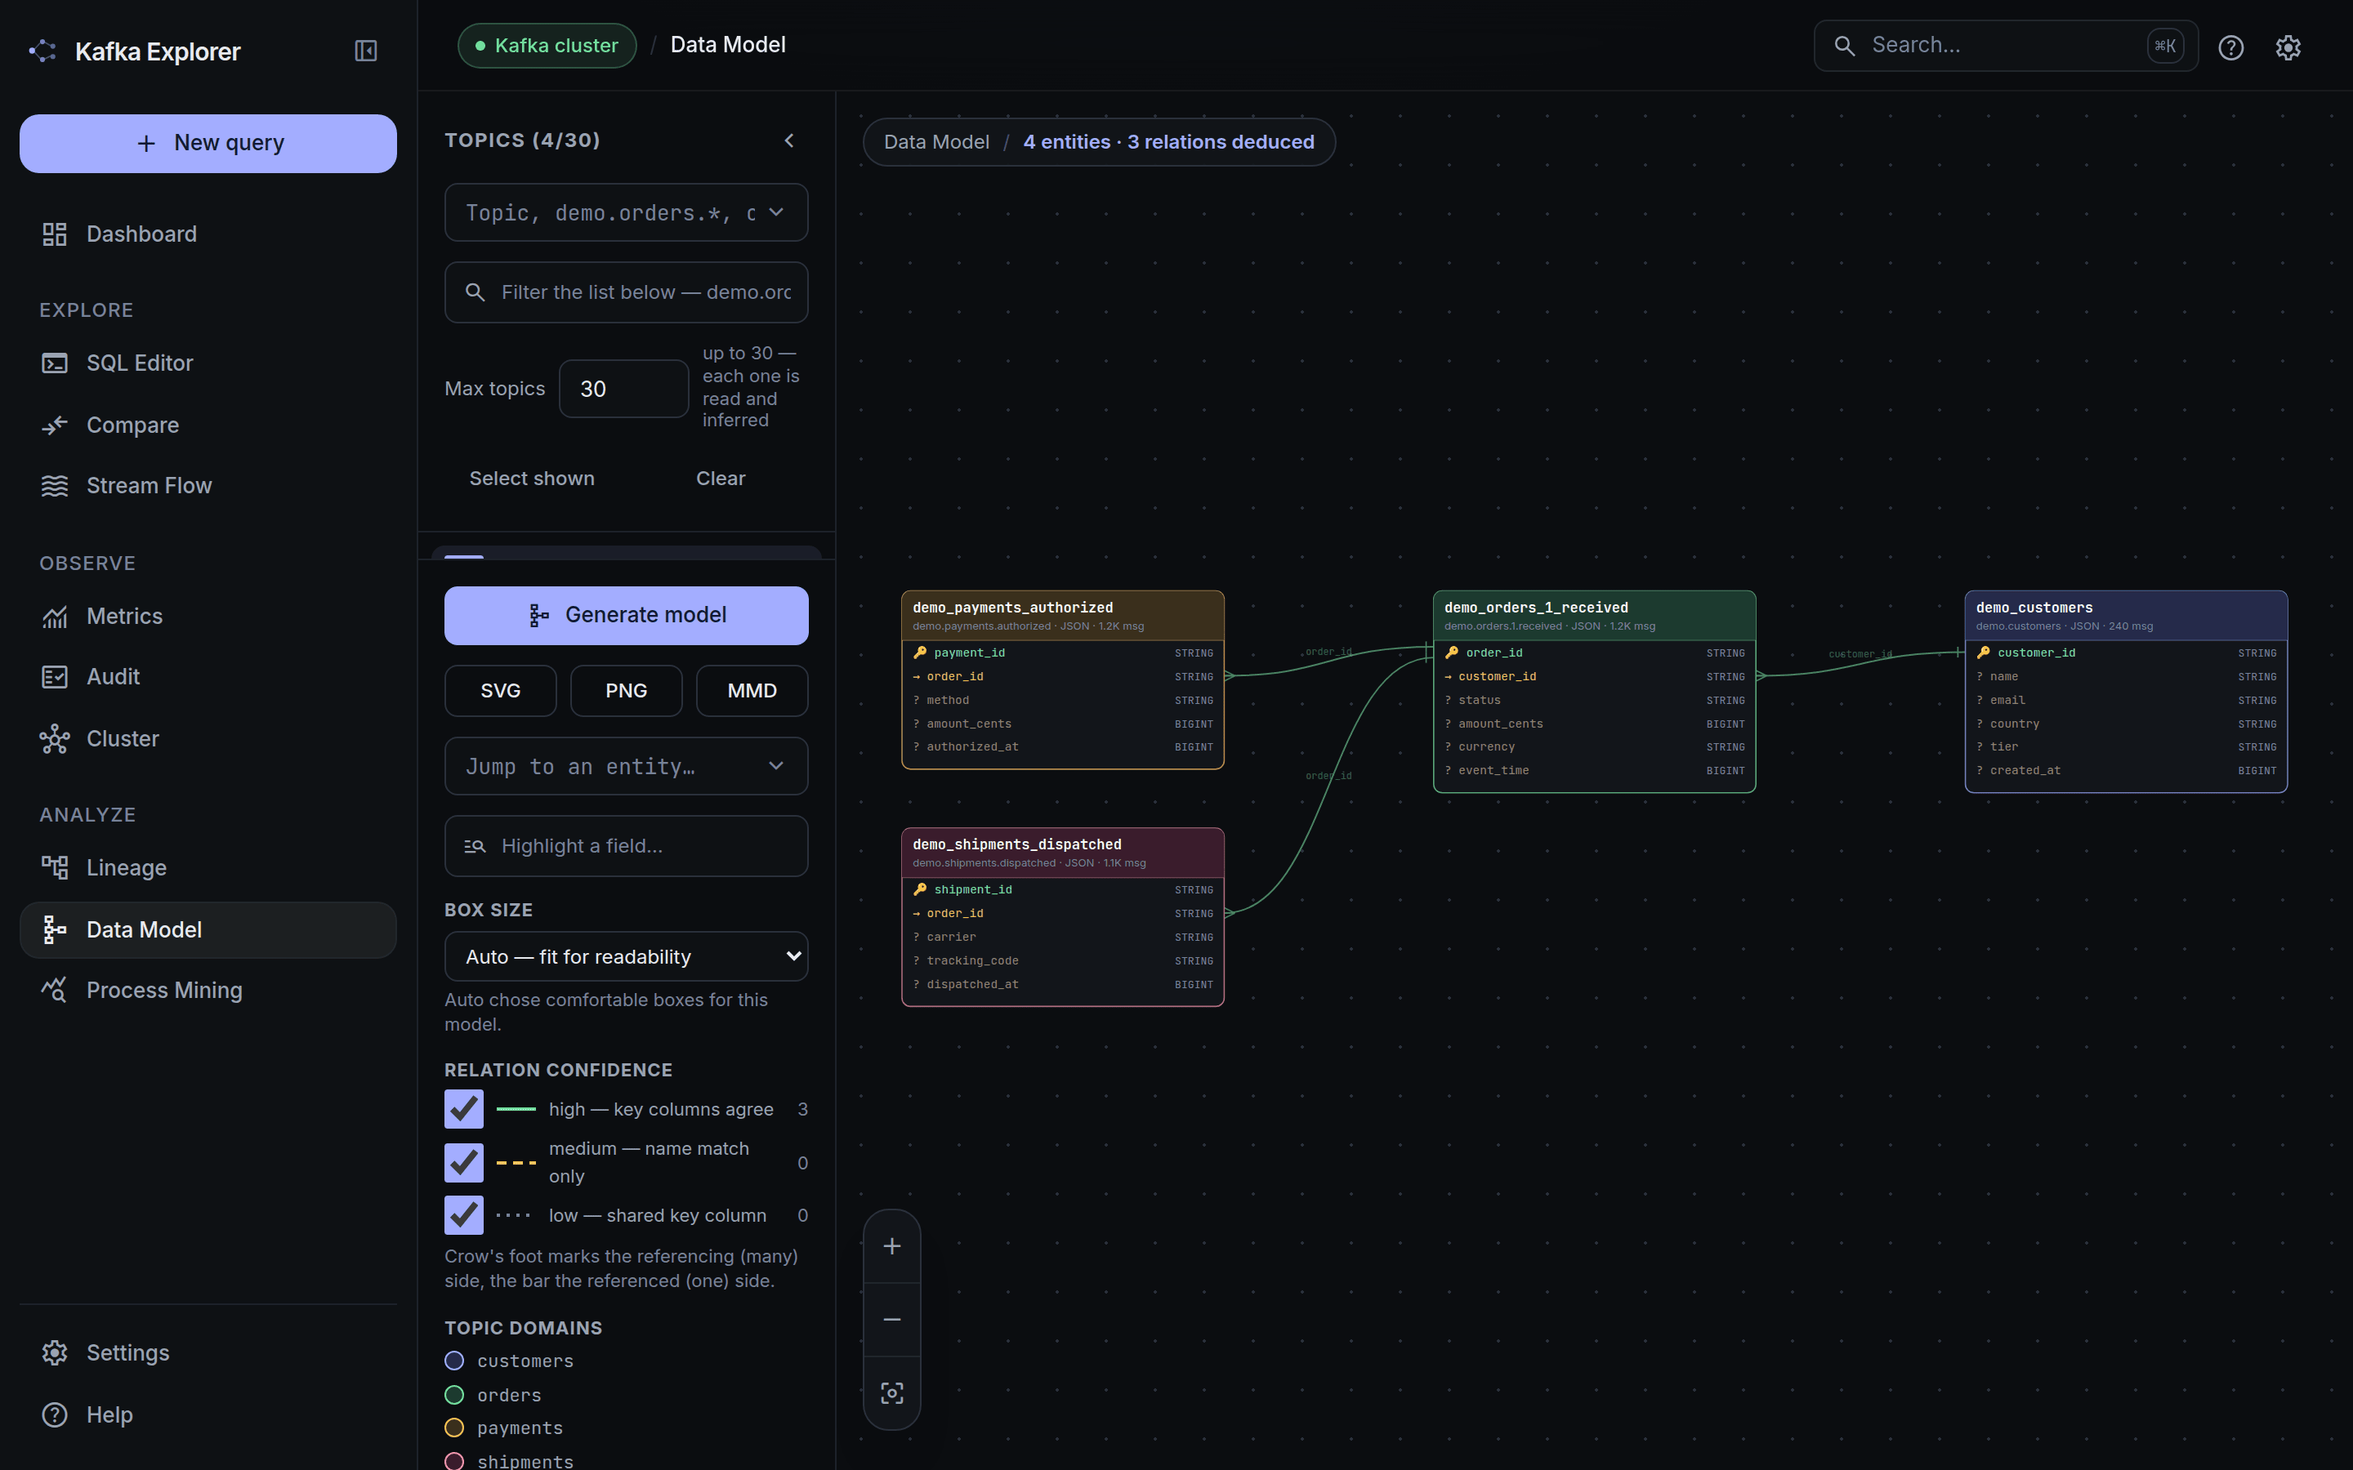
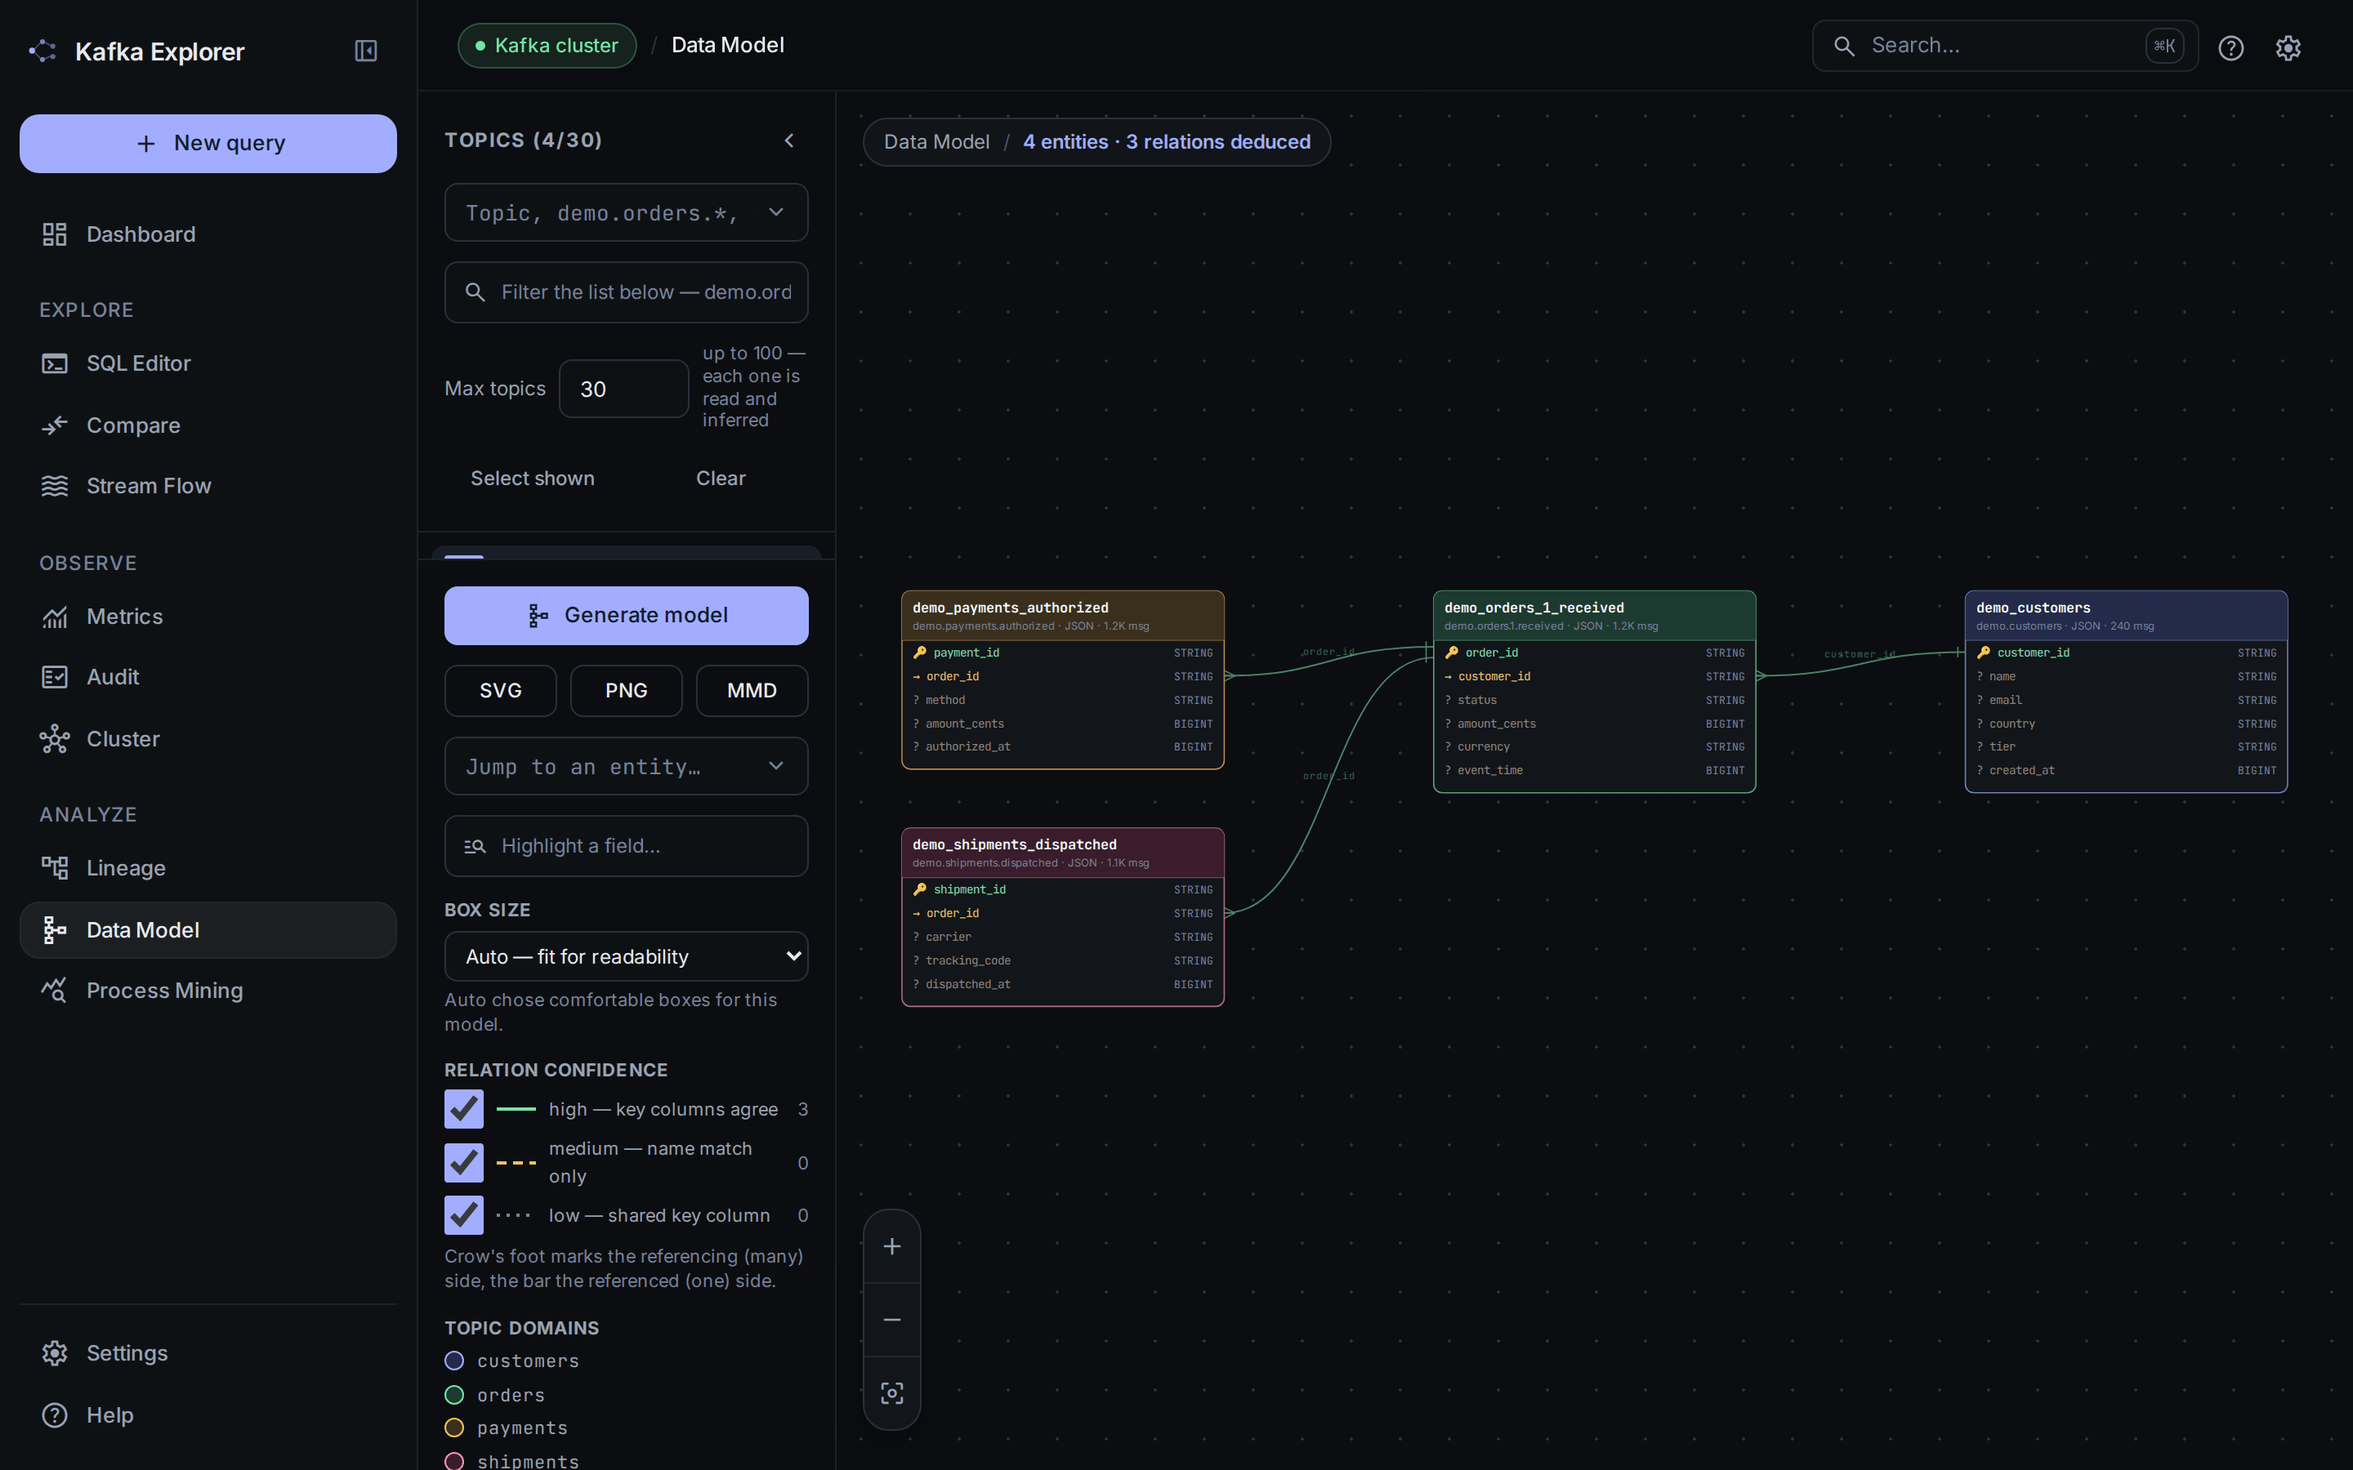
Faire échouer une capture ou une mesure prise sur une page amputée
Trois routes que la SPA appelle n'étaient pas bouchonnées par le serveur de
fixtures : `/api/data-model/limits`, `/api/metrics/label-preview` et
`/api/query/ddl-preview`. Elles étaient signalées — sur la sortie d'un
processus que le job CI lance en arrière-plan, c'est-à-dire nulle part.

Le coût n'est pas seulement une capture d'une page à qui il manque un panneau,
même si c'en est une : la page Data Model n'arrivait pas à énoncer ses propres
bornes (« up to 100 », « TOPICS (4/30) »), ce qui est exactement ce à quoi sert
cet endpoint. C'est que `layout-probe --check` parcourt ces mêmes pages et fait
échouer une PR sur des budgets mesurés contre du contenu jamais rendu. Bouchonner
`ddl-preview` déplace à lui seul `sql-editor·ddl` de 40/116 cibles sous 24 px à
39/115, parce que l'état gardé était le modal en *erreur* et pas le DDL. Et
`metrics·editor` passe de 81 à 90 éléments mesurés.

Le serveur relève donc ce qu'il n'a pas su servir, `/__unstubbed` le rapporte, et
`unstubbed.mjs` fait sortir les trois consommateurs en échec — un garde partagé
plutôt que trois copies, et un échec plutôt qu'un avertissement, ce qui est la
règle que la sonde applique déjà à ses propres états. Vérifié dans les deux sens :
il nomme la route et sort en 1, et il sort aussi en 1 quand il ne peut pas poser
la question, « je n'ai pas pu demander » n'étant pas « rien n'a échoué ».

En le mesurant, un défaut introduit par le fond de la page Metrics est apparu :
[…]

diff --git a/src/main/webapp/src/pages/TopicExplorer.test.tsx b/src/main/webapp/src/pages/TopicExplorer.test.tsx
@@ -26,6 +26,7 @@ import { render, screen, waitFor } from '@testing-library/react';
 import { createMemoryRouter, RouterProvider } from 'react-router-dom';
 import axios from 'axios';
 import type { TopicDetailResponse, TopicMessage } from '../api/types';
+import { previewOf } from '../components/topic/topicSearch';
 
 vi.mock('axios');
 const mockedAxios = vi.mocked(axios, true);
@@ -173,5 +174,38 @@ describe('Topic Explorer page', () => {
     await renderAt('');
 
     await waitFor(() => expect(screen.getByText(TOPIC)).toBeInTheDocument());
+  });
+
+  /*
+   * La cellule d'aperçu de la table porte son texte en `title`.
+   *
+   * Elle est en `max-w-0 w-full`, donc elle prend ce qui reste de la table et rogne : mesuré par
+   * `layout-probe --detail` à 704 px pour 1 711 px de contenu, une quarantaine de caractères sur
+   * les 240 que garde `previewOf`. Le reste s'obtient en cliquant la ligne, et c'est bien ce que
+   * la page propose — mais pas en survolant, et un survol est ce qu'on fait quand on balaie
+   * cinquante lignes. jsdom ne dispose rien, donc ce cas ne mesure pas le rognage : il épingle
+   * l'attribut, qui est ce qui disparaît en silence quand on réécrit une ligne de classes.
+   */
+  it('carries the clipped preview in a title, so hovering shows it without selecting the row', async () => {
+    const long = JSON.stringify({ id: 'ORD-1042', payload: 'x'.repeat(400) });
+    mockedAxios.get.mockImplementation((url: string) => {
+      if (url.startsWith(`/api/topic/${encodeURIComponent(TOPIC)}?`)) {
+        return Promise.resolve({
+          status: 200,
+          data: { ...detail(), samples: [message({ value: long })] },
+        });
+      }
+      return Promise.resolve({ status: 200, data: {} });
+    });
+
+    await renderAt('');
+    await waitFor(() => expect(screen.getByText(TOPIC)).toBeInTheDocument());
+
+    const table = await screen.findByRole('table');
+    const cell = [...table.querySelectorAll('td')].find(td => td.classList.contains('max-w-0'));
+    expect(cell).toBeTruthy();
+    expect(cell).toHaveAttribute('title', previewOf(long));
+    // Et l'aperçu est bien tronqué : un `title` égal au texte entier dirait que rien n'est rogné.
+    expect(previewOf(long).length).toBeLessThan(long.length);
   });
 });

diff --git a/src/main/webapp/src/components/metrics/MetricsPulseBackdrop.tsx b/src/main/webapp/src/components/metrics/MetricsPulseBackdrop.tsx
@@ -57,6 +57,7 @@ const FRAME_INTERVAL_MS = 1000 / 30;
  */
 const MAX_STEP_MS = 250;
 
+
 interface MetricsPulseBackdropProps {
   /**
    * Au moins une métrique *en marche* — voir `hasRunningMetric` dans `pages/metricsHealth.ts`.
@@ -200,6 +201,22 @@ export const MetricsPulseBackdrop: React.FC<MetricsPulseBackdropProps> = ({ acti
     <div
       data-testid="metrics-pulse-backdrop"
       aria-hidden="true"
+      /* Le calque se déclare ornemental, pour les outils qui ont besoin d'une image *stable*.
+         `capture.mjs` le masque avant de photographier, et ce n'est pas une coquetterie : mesuré
+         sur un même build et un même serveur, deux passages rendaient les sept autres pages
+         identiques au bit près et `metrics.png` différente à chaque fois — 24 437 pixels
+         dispersés. C'est exactement la propriété que `fixtures.mjs` énonce en dérivant tout d'un
+         instant fixe : « a screenshot that changes on every build is a diff nobody can review ».
+
+         Une graine fixe ne suffirait pas, et ça a été mesuré avant d'être écrit : les positions
+         initiales redeviennent identiques, mais le champ *dérive* avec le temps écoulé et la
+         capture tombe à un instant qui, lui, varie. Ce qu'il faut est donc de retirer l'ornement
+         de l'image, pas de rendre son tirage prévisible.
+
+         L'attribut plutôt que le `data-testid` dans l'outil : ce qu'on masque est « un décor »,
+         pas « ce composant-ci », et le prochain calque de ce genre n'aura pas à être ajouté à une
+         liste tenue ailleurs. */
+      data-decorative="true"
       /* `sticky top-0 h-0` plutôt que `absolute inset-0`, et c'est une mesure qui l'a décidé.
          Dans un conteneur qui défile, `inset-0` se résout sur la *fenêtre de défilement* et pas
          sur le contenu : mesuré sur la page Metrics de la démo en 1440×900, le calque faisait

diff --git a/src/main/webapp/src/pages/TopicExplorer.tsx b/src/main/webapp/src/pages/TopicExplorer.tsx
@@ -643,7 +643,18 @@ const MessageTable: React.FC<{
                     ? '—'
                     : <Highlighted text={message.key} highlight={highlight} />}
                 </td>
-                <td className="px-3 whitespace-nowrap text-on-surface max-w-0 w-full truncate">
+                {/* `title` porte l'aperçu que la cellule rogne. Elle est en `max-w-0 w-full`,
+                    donc elle prend ce qui reste de la table et coupe : mesuré à 704 px pour
+                    1 711 px de contenu, soit une quarantaine des 240 caractères que `previewOf`
+                    garde. Le reste n'est pas perdu — cliquer la ligne affiche la MessageCard
+                    complète en dessous, et la page le dit (« Select a row to read the record ») —
+                    mais un survol vaut mieux qu'un clic quand on balaie cinquante lignes à la
+                    recherche de celle qui porte un champ. C'est la même correction que celle
+                    faite sur les cartes de métrique, à ceci près qu'ici le clic existait déjà. */}
+                <td
+                  title={previewOf(message.value)}
+                  className="px-3 whitespace-nowrap text-on-surface max-w-0 w-full truncate"
+                >
                   <Highlighted text={previewOf(message.value)} highlight={highlight} />
                 </td>
               </tr>

diff --git a/docs/screenshots/README.md b/docs/screenshots/README.md
@@ -152,6 +152,29 @@ warning above the suggested KPIs — compared it to the real clock, so the scree
 every day and the Metrics shot eventually grew an amber banner about a two-month-old audit that
 says nothing about the product.
 
+**A moving ornament is removed before the shutter, and it had to be measured to be believed.**
+The Metrics page carries an animated backdrop that drifts continuously, so the fixed instant does
+not reach it: on one build and one server, two runs of `capture.mjs` produced seven byte-identical
+pages and a `metrics.png` differing every time — 24 437 pixels scattered over the whole image. A
+fixed random seed was tried first and is *not* the fix, which is why it is not here: it makes the
+starting positions repeat, while the drift depends on elapsed time and the shutter falls at an
+instant that varies. So the layer is hidden instead — `[data-decorative]`, which such layers set on
+themselves rather than being listed here, and which they can only honestly set when they are
+`aria-hidden` and carry no text. Nothing the capture documents is lost, and the eight screens are
+byte-identical across runs again.
+
+**An API route the SPA calls and `server.mjs` does not stub fails the run.** It used to be a
+`console.warn` from a process CI starts in the background, which is to say nowhere: three routes
+lived there unseen — `/api/data-model/limits`, `/api/metrics/label-preview` and
+`/api/query/ddl-preview`. The cost was not only a screenshot of a page missing a panel (Data Model
+could not state its own bounds, the very thing that endpoint exists for). `layout-probe --check`
+walks those same pages and **fails a pull request** on budgets measured against content that was
+never rendered: stubbing `ddl-preview` alone moved `sql-editor·ddl` from 40/116 undersized targets
+to 39/115, because the state being gated was the modal's *error*. The server records what it could
+not serve, `/__unstubbed` reports it, and `unstubbed.mjs` makes all three consumers exit non-zero —
+one helper rather than three copies, and a failure rather than a warning, which is the rule the
+probe already applies to its own states.
+
 The fixtures are shaped against the frontend's own TypeScript contracts
 (`TopicSearchResponse`, `SchemaInfo`, `AuditReport`, `ParsedFlow`…). When one of those
 contracts changes, the screenshot is where it shows: a missing field renders as `NaN` or an

diff --git a/docs/notes/frontend.md b/docs/notes/frontend.md
@@ -270,6 +270,19 @@ théorique : c'est une division par zéro, donc chaque position multipliée par 
 qui disparaît, au premier montage d'un hôte pas encore disposé — le cas de jsdom, et celui d'un
 onglet ouvert en arrière-plan.
 
+**Le calque se déclare ornemental, et c'est une capture d'écran qui l'a exigé.** Un fond qui
+dérive en continu rend `docs/img/metrics.png` irreproductible : mesuré sur un même build et un même
+serveur, deux passages de `capture.mjs` rendaient les sept autres pages identiques au bit près et
+celle-ci différente à chaque fois, 24 437 pixels dispersés sur toute l'image. C'est exactement la
+propriété que `fixtures.mjs` tient en dérivant tout d'un instant fixe — une capture qui bouge seule
+est une capture qu'on cesse de relire — et ce fond l'avait cassée sans que rien ne le dise. Une
+graine fixe a été essayée **et mesurée avant d'être gardée** : elle ne corrige rien, puisqu'elle
+fait répéter les positions de départ pendant que la dérive, elle, suit le temps écoulé et que
+l'obturateur tombe à un instant qui varie. `data-decorative` sur l'ancre, que `capture.mjs` masque,
+est donc la correction — un attribut que le calque pose sur lui-même plutôt qu'une liste tenue dans
+l'outil, et qu'il ne peut honnêtement poser que parce qu'il est `aria-hidden` et ne porte aucun
+texte.
+
 **La moitié calculatoire est un module pur** (`components/metrics/metricsPulseField.ts`), pour la
 raison habituelle ici : ce qui se règle silencieusement de travers dans une animation n'est pas le
 dessin mais la géométrie, et rien de tout cela n'échoue — ça rend une page lente ou une image qui

diff --git a/MOBILE-LAYOUT-SCOPE.md b/MOBILE-LAYOUT-SCOPE.md
@@ -385,6 +385,19 @@ suggestion cards overflow their grid by 8 px at phone width, the clipped line be
 On the Topic Explorer: the message table's preview cell, `truncate` by design — the full payload is
 reached by selecting the row, which is an affordance the probe cannot see.
 
+**That last row is gone since 2026-08-31, and how it went is worth more than the row.** It was
+correctly diagnosed here — nothing was hidden, the click reaches the record — and that diagnosis
+was then used to leave it alone, on a budget line in `layout-probe.mjs` carrying no comment. Two
+readings later it looked like a row nobody had examined, because the reasoning lived in this file
+and the number lived in that one. What the re-examination actually found is that both things are
+true at once: the payload *is* reachable, **and** a hover is what one does when scanning fifty rows
+for the one carrying a field, where a click means selecting a row to read it and then going back.
+The cell carries `title={previewOf(message.value)}` now — the same 240 characters it already
+renders, of which the 704 px column shows about forty — so `topic-explorer` reads **0
+unreachable** at every width and its budget is a floor rather than a ceiling. The lesson is the
+filing, not the fix: a budget line that records a decision has to carry it, or the decision is
+re-litigated by whoever reads the number first.
+
 So W7's recorded answer holds in substance — nothing of consequence is hidden — but not in the
 absolute form it was written in, and it now rests on a number that means what it says.
 
